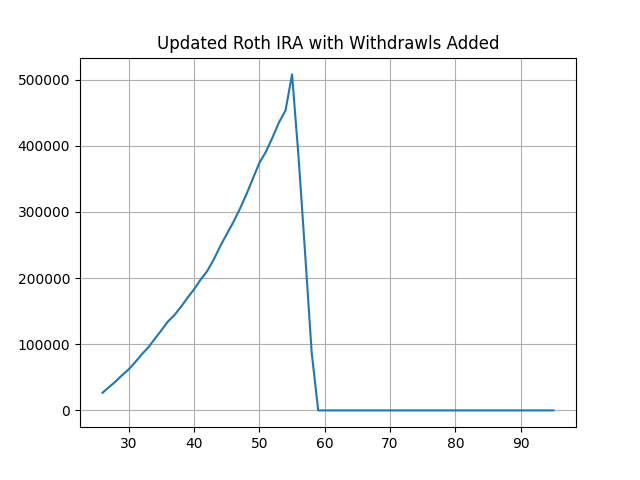
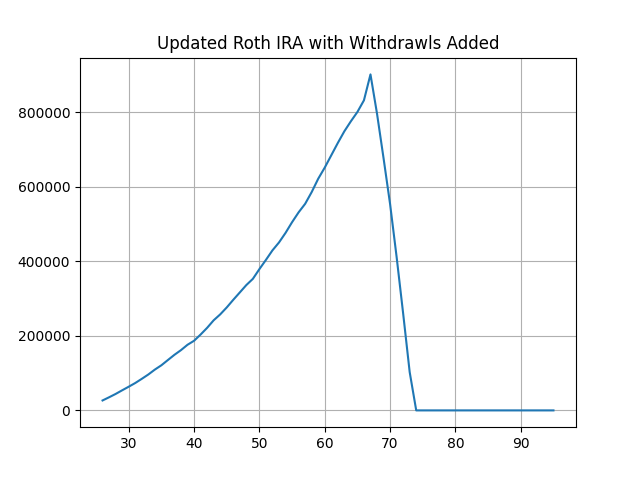
Added Ball Pension to withdrawl logic.

diff --git a/investment_accounts.py b/investment_accounts.py
@@ -40,33 +40,42 @@ class investment_account:
                         self.account_value[index] = 0
         elif self.type == "Ball Pension":
             # Ball pensions don't accumulate interest -- you just earn a specific amount of money per year
-            years_already_there = user.age - self.starting_age
-            self.account_value[0] = self.principal
-            for index in range(1,num_sim_years):
-                if index < user.accumulate_wealth_duration:
-                    if (index + years_already_there) < 10:
-                        self.account_value[index] = self.account_value[index-1] + (user.salary_by_year[index] * 0.115) + 0.05*(user.salary_by_year[index] - 0.5*self.extrapolate_ss_base_wage(user, user.age+index))
-                    elif (index + years_already_there) < 20:
-                        self.account_value[index] = self.account_value[index-1] + (user.salary_by_year[index] * 0.13) + 0.05*(user.salary_by_year[index] - 0.5*self.extrapolate_ss_base_wage(user, user.age+index))
-                    elif (index + years_already_there) >= 20:
-                        self.account_value[index] = self.account_value[index-1] + (user.salary_by_year[index] * 0.15) + 0.05*(user.salary_by_year[index] - 0.5*self.extrapolate_ss_base_wage(user, user.age+index))
+            if num_sim_years == user.sim_length: # this is the first simulation of this account, so treat it as normal
+                years_already_there = user.age - self.starting_age
+                self.account_value[0] = self.principal
+                for index in range(1,num_sim_years):
+                    if index < user.accumulate_wealth_duration:
+                        if (index + years_already_there) < 10:
+                            self.account_value[index] = self.account_value[index-1] + (user.salary_by_year[index] * 0.115) + 0.05*(user.salary_by_year[index] - 0.5*self.extrapolate_ss_base_wage(user, user.age+index))
+                        elif (index + years_already_there) < 20:
+                            self.account_value[index] = self.account_value[index-1] + (user.salary_by_year[index] * 0.13) + 0.05*(user.salary_by_year[index] - 0.5*self.extrapolate_ss_base_wage(user, user.age+index))
+                        elif (index + years_already_there) >= 20:
+                            self.account_value[index] = self.account_value[index-1] + (user.salary_by_year[index] * 0.15) + 0.05*(user.salary_by_year[index] - 0.5*self.extrapolate_ss_base_wage(user, user.age+index))
 
-                else: # doesn't accumulate value after retirement
-                    if index == user.accumulate_wealth_duration: # if the user is <65 years old at retirement, we need to reduce the value of the pension account
-                        retirement_age = user.age + index
-                        if retirement_age < 65: # this is considered an early retirement -- you will get a reduced lump sum value
-                            with open('Ball_Early_Retirement_Scale_Factors.csv', newline='') as csvfile:
-                                ball_early_retirement_scale_factors = list(csv.reader(csvfile, delimiter=',', quoting=csv.QUOTE_NONNUMERIC))
-                                self.account_value[index] = self.account_value[index-1] * float(ball_early_retirement_scale_factors[0][retirement_age-55])
-                    else:
-                        self.account_value[index] = self.account_value[index-1]
+                    else: # doesn't accumulate value after retirement
+                        if index == user.accumulate_wealth_duration: # if the user is <65 years old at retirement, we need to reduce the value of the pension account
+                            retirement_age = user.age + index
+                            if retirement_age < 65: # this is considered an early retirement -- you will get a reduced lump sum value
+                                with open('Ball_Early_Retirement_Scale_Factors.csv', newline='') as csvfile:
+                                    ball_early_retirement_scale_factors = list(csv.reader(csvfile, delimiter=',', quoting=csv.QUOTE_NONNUMERIC))
+                                    self.account_value[index] = self.account_value[index-1] * float(ball_early_retirement_scale_factors[0][retirement_age-55])
+                        else:
+                            self.account_value[index] = self.account_value[index-1]
+
+            else: # this is us withdrawing from the account
+                # when withdrawing from the account, we don't need to simulate any growth because we're retired, so just update the principal
+                self.account_value[0] = self.principal
+                for index in range(1,num_sim_years):
+                    self.account_value[index] = self.account_value[index-1] + principal_update[0]
+                    if self.account_value[index] <= 0: # we don't have any more money, so need to stop the simulation
+                        self.account_value[index] = 0
             
             # plot things to make sure they're working properly
-            plt.figure()
-            plt.grid(True)
-            plt.plot(np.arange(user.age,user.death_age+1,1), self.account_value)
-            plt.title("Ball Pension Yearly Account Value")
-            plt.savefig("ball_pension_value_over_time.png")
+            #plt.figure()
+            #plt.grid(True)
+            #plt.plot(np.arange(user.age,user.death_age+1,1), self.account_value)
+            #plt.title("Ball Pension Yearly Account Value")
+            #plt.savefig("ball_pension_value_over_time.png")
             
 
         # plot results for fun

diff --git a/users.py b/users.py
@@ -94,9 +94,12 @@ class User:
         counter = 0
         for account in accounts:
             account_values_at_retirement[counter] = account.account_value[self.accumulate_wealth_duration]
+            if account.type == "Ball Pension": # Pensions don't accumulate after retirement, so withdraw from them first
+                account_values_at_retirement[counter] = 0 # make sure this is withdrawn from first
+
             print("Account " + account.name + " value at retirement: " + str(account_values_at_retirement[counter]))
             counter += 1
-        
+
         # with the account values at retirement known, I'll sort them into the order from which I'll withdraw them (ascending order)
         temp = sorted(zip(account_values_at_retirement, accounts))
         account_withdrawl_order = [x for y, x in temp]
@@ -105,8 +108,17 @@ class User:
         withdrawl_age = self.accumulate_wealth_duration
         counter = 0
         for account in account_withdrawl_order:
-            principal_update = (-percentage_of_final_salary * self.salary_by_year[-1]) * np.ones((self.withdraw_wealth_duration-counter, 1))
-            new_account = investment_account(account.name, account.account_value[self.accumulate_wealth_duration+counter])
+            # need to handle the scenario where we die before we run out of money
+            if counter < self.withdraw_wealth_duration:
+                principal_update = (-percentage_of_final_salary * self.salary_by_year[-1]) * np.ones((self.withdraw_wealth_duration-counter, 1))
+            else: # we died before we ran out of money, so stop withdrawing from accounts
+                principal_update = 0 * np.ones((self.withdraw_wealth_duration-counter, 1))
+
+            if account.type == "generic":
+                new_account = investment_account(account.name, account.account_value[self.accumulate_wealth_duration+counter])
+            elif account.type == "Ball Pension":
+                new_account = investment_account(account.name, account.account_value[self.accumulate_wealth_duration+counter], "Ball Pension")
+
 
             # I'll need to re-simulate the account after the point where we start to withdraw from it
             new_account.simulate_growth(self, principal_update, [0,0], [0,0], self.withdraw_wealth_duration-counter, account.return_by_year)
@@ -114,14 +126,12 @@ class User:
             # update the account I've remodeled to reflect this withdrawl behavior
             account.account_value = np.delete(account.account_value, range(-self.withdraw_wealth_duration+counter, 0))
             account.account_value = account.account_value.reshape((len(account.account_value),1))
-            print(account.account_value.shape)
-            #print(account.account_value)
-            #print(new_account.account_value)
-            print(new_account.account_value.shape)
             account.account_value = np.vstack((account.account_value, new_account.account_value))
             empty_index = np.where(new_account.account_value == 0)
-            counter += int(empty_index[0][0])
-            print(counter)
+            if len(empty_index[0]) != 0:
+                counter += int(empty_index[0][0])
+            else:
+                counter += 0
 
             # print the results to make sure it's working
             plt.figure()

diff --git a/main.py b/main.py
@@ -8,10 +8,10 @@ import numpy as np
 
 
 def main():
-    jake = User("Jake", 26, "male", 55)
+    jake = User("Jake", 26, "male", 62)
     test_account = investment_account("Roth IRA", 26658.70)
     test_account2 = investment_account("401K", 15063.55)
-    test_account3 = investment_account("Roth IRA 2", 26658.70)
+    #test_account3 = investment_account("Roth IRA 2", 26658.70)
 
     # try defining a Ball Pension
     test_account4 = investment_account("Jake Pension", 20000, "Ball Pension")
@@ -21,7 +21,7 @@ def main():
     #jake.calculate_death_age()
     jake.set_death_age(95)
 
-    jake.set_salary(97000)
+    jake.set_salary(97053.60)
     jake.simulate_salary_growth([0.05, 0.01], [0.02, 0.005])
 
     # now try and simulate the growth of some investment accounts
@@ -29,13 +29,16 @@ def main():
     principal_update_by_year2 = np.vstack((0.08*jake.salary_by_year, np.zeros((jake.withdraw_wealth_duration,1))))
     account_value = test_account.simulate_growth(jake, principal_update_by_year, [0.08, 0.03], [0.02, 0.005], jake.sim_length)
     account_value2 = test_account2.simulate_growth(jake, principal_update_by_year2, [0.08, 0.03], [0.02, 0.005], jake.sim_length)
-    account_value3 = test_account3.simulate_growth(jake, principal_update_by_year, [0.08, 0.03], [0.02, 0.005], jake.sim_length)
+    #account_value3 = test_account3.simulate_growth(jake, principal_update_by_year, [0.08, 0.03], [0.02, 0.005], jake.sim_length)
     account_value4 = test_account4.simulate_growth(jake, principal_update_by_year, [0, 0], [0, 0], jake.sim_length)
 
-    jake.simulate_decay([test_account, test_account2, test_account3], 0.9)
+    #jake.simulate_decay([test_account, test_account2, test_account3, test_account4], 0.8)
+    jake.simulate_decay([test_account, test_account2, test_account4], 0.9)
 
     plt.figure()
-    plt.plot(np.arange(jake.age, jake.death_age+1, 1), test_account.account_value+test_account2.account_value+test_account3.account_value)
+    plt.grid(True)
+    #plt.plot(np.arange(jake.age, jake.death_age+1, 1), test_account.account_value+test_account2.account_value+test_account3.account_value+test_account4.account_value)
+    plt.plot(np.arange(jake.age, jake.death_age+1, 1), test_account.account_value+test_account2.account_value+test_account4.account_value)
     plt.title("Investment Account Value Over Time")
     plt.savefig("account_over_time.png")
 
